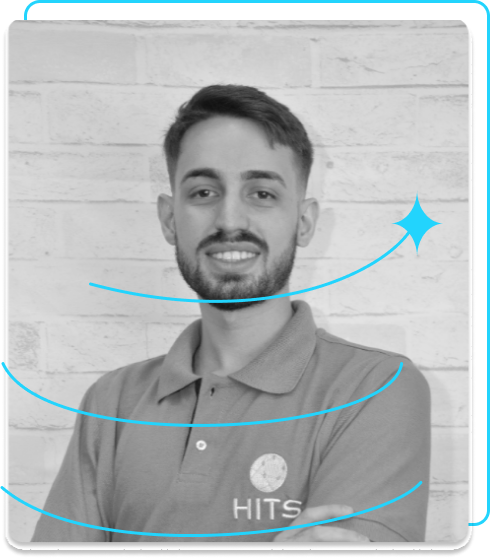
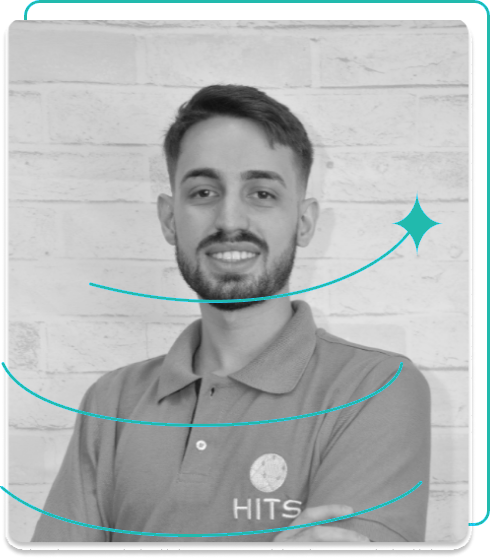
06122023 - 02

diff --git a/cv.html b/cv.html
@@ -16,15 +16,16 @@
     </header>
     <main class="apresentacao">
         <section class="apresentacao__conteudo">
-            <h1 class="apresentacao__conteudo__titulo_cv">Marco Antonio de Lima Neto</h1>
+            <h1 class="apresentacao__conteudo__titulo">Currículo</h1>
+            <h2 class="apresentacao__conteudo__titulo_cv">Marco Antonio de Lima Neto</h2>
 
-            <p class="apresentacao__conteudo__texto">Objetivo:</p>
+            <h3 class="apresentacao__conteudo__texto">Objetivo:</h3>
             <p class="apresentacao__conteudo__texto__atividades">Encantar novos clientes utilizando da experiência, Hard Skills e Soft Skills que adquiri durante quase 4 anos de <a href="https://appsistemas.com.br/" class="apresentacao__conteudo__texto__atividades__link"> APP Sistemas</a>. Também contribuir para o time de onboarding através de identificação de pontos de melhoria dos processos do time sempre que possível.</p>
             
-            <p class="apresentacao__conteudo__texto">Graduação:</p>
+            <h3 class="apresentacao__conteudo__texto">Graduação:</h3>
             <p class="apresentacao__conteudo__texto__atividades">Curso superior: Informática para Negócios - <a href="https://fatecriopreto.edu.br/" class="apresentacao__conteudo__texto__atividades__link">Fatec Rio Preto</a> - 2020</p>
 
-            <p class="apresentacao__conteudo__texto">Hard Skills:</p>
+            <h3 class="apresentacao__conteudo__texto">Hard Skills:</h3>
             <ul class="apresentacao__conteudo__texto__atividades">                
                 <li>Especialista nos PMS APP Hotel e HITS (Auditoria, Estoque, Financeiro, Fiscal, Front e Integrações com Terceiros via API).</li>
                 <li>Conhecimento em ERP Omie (Estoque, Financeiro e Fiscal).</li>                
@@ -37,7 +38,7 @@
                 <li>Boa escrita.</li>
                 <li>Conhecimento em Hotelaria e Turismo.</li>
             </ul>
-            <p class="apresentacao__conteudo__texto">Soft Skills consolidadas:</p>
+            <h3 class="apresentacao__conteudo__texto">Soft Skills consolidadas:</h3>
             <ul class="apresentacao__conteudo__texto__atividades">
                 <li>Trabalho em equipe.</li>
                 <li>Abertura para aprender e ensinar.</li>
@@ -47,14 +48,14 @@
                 <li>Escuta ativa.</li>
                 <li>Organização.</li>
             </ul>
-            <p class="apresentacao__conteudo__texto">Soft Skills em processo de melhoria:</p>
+            <h3 class="apresentacao__conteudo__texto">Soft Skills em processo de melhoria:</h3>
             <ul class="apresentacao__conteudo__texto__atividades">
                 <li>Comunicação.</li>
                 <li>Negociação.</li>
             </ul>
             
 
-            <p class="apresentacao__conteudo__texto">Atividades que exerço:</p>
+            <h3 class="apresentacao__conteudo__texto">Atividades que exerço:</h3>
             <ul class="apresentacao__conteudo__texto__atividades">
                 <li>Apoio a demais equipes e clientes de forma reativa e proativa, através de Suporte N3 aos clientes em situações onde o departamento Suporte ou Onboarding não conseguiu a solução.</li>
                 <li>Investigação de possíveis incidentes para abertura de issues para correção.</li>
@@ -64,7 +65,7 @@
                 <li>Contribuição para melhoria dos processos e produtos da empresa, através da identificação de pontos de melhoria utilizando de escuta ativa com pensamento e comportamento Customer Centric.</li>
         </section>
 
-        <img src="assets/marco.png" alt="Foto do Marco Lima">
+        <img class="apresentacao__imagem" src="assets/marco.png" alt="Foto do Marco Lima">
     </main>
     <footer class="rodape">
         <p>Desenvolvido por Marco Lima.</p>

diff --git a/styles/style.css b/styles/style.css
@@ -25,10 +25,11 @@ body {
 }
 
 .cabecalho {
-    padding: 2% 0% 2% 15%;
+    padding: 1% 0% 1% 15%;
     border-bottom: 1px solid #F0F0F0;
     box-shadow: rgba(0, 0, 0, 0.1) 0px 1px 3px 0px, rgba(0, 0, 0, 0.06) 0px 1px 2px 0px;
     position: sticky;   
+    background-color: var(--cor-1);
     top: 0; 
 }
 
@@ -39,10 +40,14 @@ body {
 
 .cabecalho__menu__link {
     font-family: var(--font-2);
-    font-size: 24px;
+    font-size: 1.5rem;
     font-weight: 600;
     color: var(--cor-3);  
     text-decoration: none;
+}
+
+.cabecalho__menu__link:hover {
+    color: var(--cor-4);
 }
 
 .apresentacao {
@@ -50,31 +55,32 @@ body {
     display: flex;
     align-items: center;
     justify-content: space-between;
+    gap: 82px;
 }
 
 .apresentacao__conteudo {
-    width: 615px;
+    width: 50%;
     display: flex;
     flex-direction: column;
     gap: 40px;
 }
 
 .apresentacao__conteudo__titulo {
-    font-size: 36px;
+    font-size: 2.25rem;
     font-family: var(--font-1);
 }
 
 .apresentacao__conteudo__titulo_cv{
-    font-size: 30px;
+    font-size: 1.875rem;
     font-family: var(--font-1);
 }
 
 .destaque-titulo {
-    color: var(--cor-3);
+    color: var(--cor-4);
 }
 
 .apresentacao__conteudo__texto {
-    font-size: 24px;
+    font-size: 1.5rem;
     font-family: var(--font-2);;
 }
 
@@ -83,8 +89,12 @@ body {
     color: var(--cor-3);
 }
 
+.apresentacao__conteudo__texto__link:hover {
+    color: var(--cor-4);
+}
+
 .apresentacao__conteudo__texto__atividades {
-    font-size: 18px;
+    font-size: 1.125rem;
     font-family: var(--font-2);;
 
 }
@@ -114,39 +124,59 @@ body {
 .apresentacao__links__subtitulo {
     font-family: var(--font-1); 
     font-weight: 400;
-    font-size: 24px;
+    font-size: 1.5rem;
 }
 
-.apresentacao__links__link {
+.apresentacao__links__navegacao {
     display: flex;
     justify-content: center;
     gap: 16px;
-    width: 378px;
+    width: 50%;
     text-align: center;
     border-radius: 50rem;
-    font-size: 24px;
+    font-size: 1.5rem;
     font-weight: 600;
     padding: 21.5px 0px;
     text-decoration: none;
     color: var(--cor-1);    
     font-family: var(--font-2);
     border: 2px solid var(--cor-borda);
-    background-color: #21BAAD;
-    color: var(--cor-2);
+    background-color: var(--cor-3);
+    color: var(--cor-1);
 }
 
 .apresentacao__links__link:hover {
-    background-color: var(--cor-hover);
-    color: var(--cor-1);
-    
+    background-color: var(--cor-hover);    
+}
+
+.apresentacao__imagem {
+    width: 50%;
 }
 
 .rodape {
-    padding: 24px;
+    padding: 12px;
     color: var(--cor-1);
     background-color: var(--cor-3);
     text-align: center;
     font-family: var(--font-2);;
-    font-size: 24px;
+    font-size: 1.125rem;
     font-weight: 400;
+}
+
+@media (max-width: 1200px) {
+    .cabecalho {
+        padding: 10%;
+    }
+
+    .cabecalho__menu {
+        justify-content: center;
+    }
+    
+    .apresentacao {
+        flex-direction: column-reverse;
+    }
+
+    .apresentacao__conteudo {
+        width: auto;
+    }    
 }

diff --git a/index.html b/index.html
@@ -20,18 +20,16 @@
             <p class="apresentacao__conteudo__texto">Olá! Sou Marco Lima, analista de CX e especialista no produto <a href="https://appsistemas.com.br/hits/" class="apresentacao__conteudo__texto__link"> HITS</a>. Posso ajudar seus clientes à utilizarem o máximo que seu produto tem a oferecer. Vamos conversar?</p>
             <div class="apresentacao__links">
                 <h2 class="apresentacao__links__subtitulo">Acesse minhas redes:</h2>
-                <a href="https://www.linkedin.com/in/marco-antonio-lima-neto-7376432a3/" class="apresentacao__links__link">
-                    <img src="assets/linkedin.png">
+                <a href="https://www.linkedin.com/in/marco-antonio-lima-neto-7376432a3/" class="apresentacao__links__navegacao">
                     LinkedIn
                 </a>
-                <a href="https://w.app/XRJpEL" class="apresentacao__links__link">
-                    <img src="assets/whatsapp.png"> 
+                <a href="https://w.app/XRJpEL" class="apresentacao__links__navegacao">
                     Whatsapp
                 </a>
             </div>
         </section>
 
-        <img src="assets/marco.png" alt="Foto do Marco Lima">
+        <img class="apresentacao__imagem" src="assets/marco.png" alt="Foto do Marco Lima">
 
     </main>
     <footer class="rodape">

diff --git a/about.html b/about.html
@@ -26,7 +26,7 @@
                         
         </section>
 
-        <img src="assets/marco.png" alt="Foto do Marco Lima">
+        <img class="apresentacao__imagem" src="assets/marco.png" alt="Foto do Marco Lima">
     </main>
     <footer class="rodape">
         <p>Desenvolvido por Marco Lima.</p>
